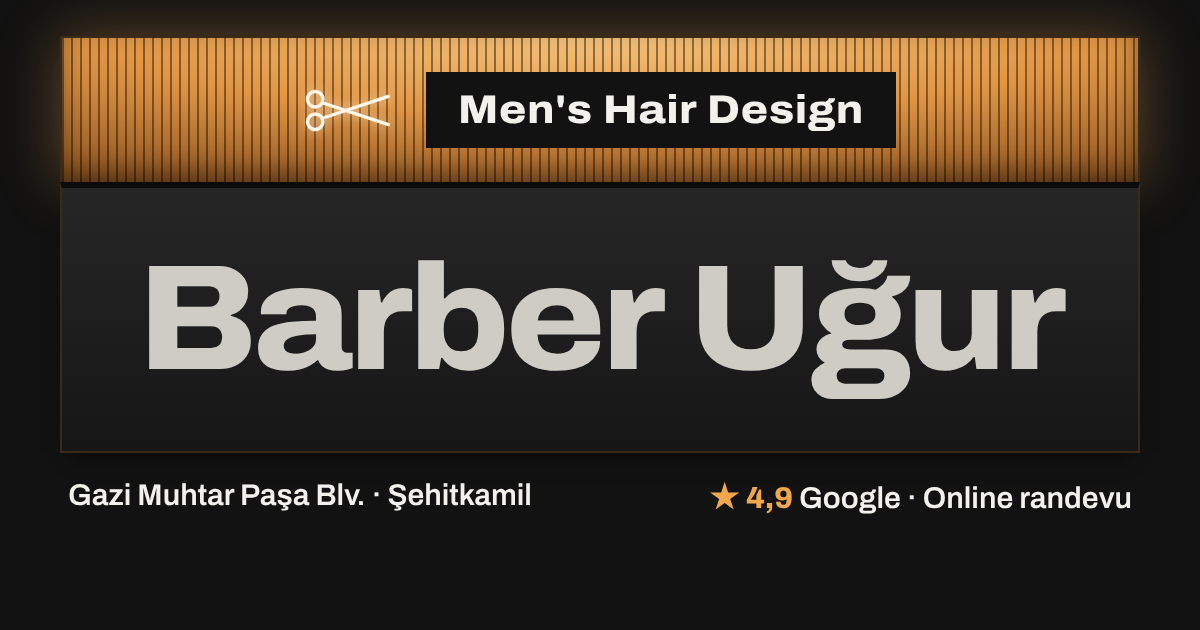
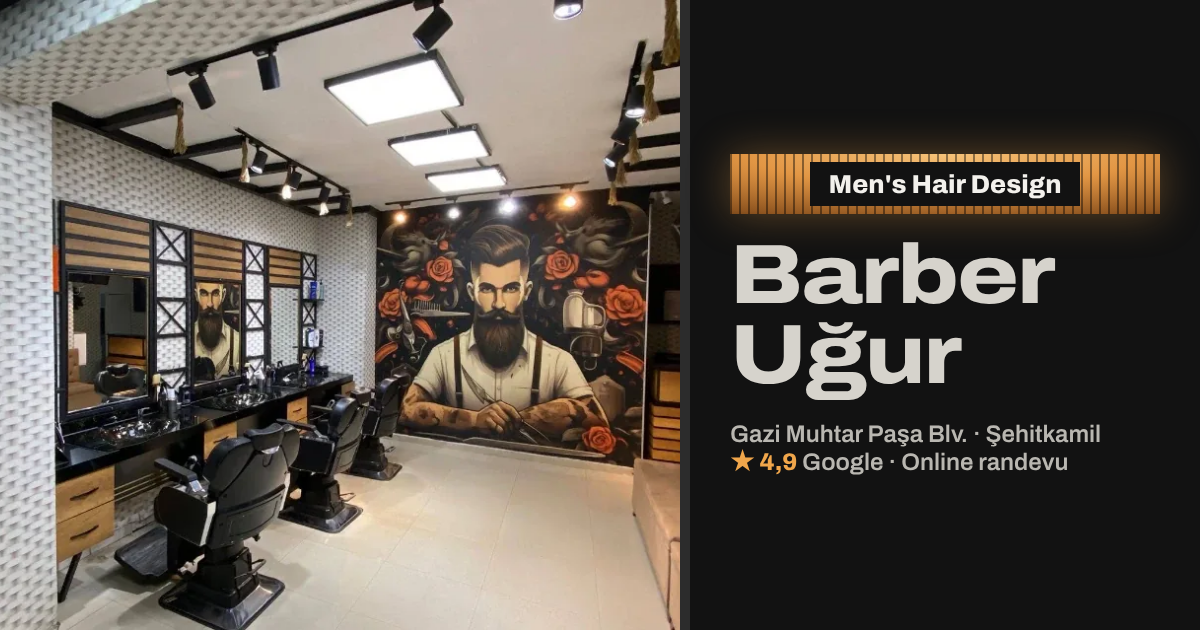
Barber Uğur: dükkânın gerçek fotoğrafları
Açılışa gece cephe fotoğrafı (vitrindeki kişiler bulanık), yeni 'İçeride'
bölümü (3 iç mekân fotoğrafı, kişisiz), gerçek fotoğraflı OG görseli,
grid taşma düzeltmesi. Adres kullanıcı tarafından teyit edildi.

Claude-Session: https://claude.ai/code/session_01LJucEp4QKttqhy59RtcL7h

diff --git a/barber-ugur/index.html b/barber-ugur/index.html
@@ -32,7 +32,11 @@
     "alternateName": "Barber Uğur Men's Hair Design",
     "description": "Gaziantep Şehitkamil Mücahitler'de, Gazi Muhtar Paşa Bulvarı üzerinde berber: saç kesimi, sakal tıraşı, saç ve sakal, çocuk tıraşı.",
     "url": "https://selahattinpeltek46-sudo.github.io/imfa-yap-/barber-ugur/",
-    "image": "https://selahattinpeltek46-sudo.github.io/imfa-yap-/barber-ugur/img/og.png",
+    "image": [
+      "https://selahattinpeltek46-sudo.github.io/imfa-yap-/barber-ugur/img/og.png",
+      "https://selahattinpeltek46-sudo.github.io/imfa-yap-/barber-ugur/img/cephe-gece.webp",
+      "https://selahattinpeltek46-sudo.github.io/imfa-yap-/barber-ugur/img/ic-genis.webp"
+    ],
     "telephone": "+905428253389",
     "address": {
       "@type": "PostalAddress",
@@ -88,6 +92,7 @@
       <a class="marka" href="./" aria-label="Barber Uğur ana sayfa">Barber Uğur</a>
       <nav class="menu" aria-label="Ana menü">
         <a href="#hizmetler">Hizmetler</a>
+        <a href="#iceride">İçeride</a>
         <a href="#randevu">Randevu</a>
         <a href="#sorular">Sorular</a>
         <a href="#adres">Adres</a>
@@ -121,6 +126,9 @@
               <span class="puan__yildiz" aria-hidden="true">★★★★★</span> Google'da 4,9 · 70 değerlendirme
             </a>
           </div>
+          <figure class="vitrin__foto">
+            <img src="img/cephe-gece.webp" width="662" height="813" fetchpriority="high" alt="Barber Uğur'un akşam cephesi: üstte ışıklı Men's Hair Design tabelası, siyah tentede Barber Uğur yazısı, önünde ahşap oturma grubu">
+          </figure>
           <dl class="vitrin__cam kunye">
             <div><dt>Kapanış</dt><dd>20:00</dd></div>
             <div><dt>Adres</dt><dd>Gazi Muhtar Paşa Blv. No:46/E</dd></div>
@@ -162,6 +170,27 @@
             <p>Tıraşın ardından yapılıyor; istiyorsanız randevu notuna yazın.</p>
           </li>
         </ul>
+      </div>
+    </section>
+
+    <!-- İÇERİDE: dükkânın kendi fotoğrafları (kişi yok; dış cephede içerideki kişiler bulanıklaştırıldı) -->
+    <section class="bolum bolum--koyu" id="iceride" aria-labelledby="iceride-baslik">
+      <div class="kap">
+        <h2 id="iceride-baslik">İçeride</h2>
+        <p class="iceride__giris">Duvarı kaplayan güllü berber resmi, ışıklı aynalar, siyah koltuklar. Bekleyenler için koltuk, küçükler için oyuncak araba var.</p>
+        <div class="galeri">
+          <figure class="galeri__genis">
+            <img src="img/ic-genis.webp" width="1206" height="639" loading="lazy" alt="Dükkânın içi: siyah berber koltukları, aynalı istasyonlar, duvarda güllü sakallı berber resmi, solda altın çerçeveli ayna ve mavi oyuncak araba koltuğu">
+          </figure>
+          <figure>
+            <img src="img/ic-duvar-resmi.webp" width="1219" height="637" loading="lazy" alt="Üç berber koltuğu, çapraz çıtalı siyah raflı aynalar ve sağ duvarda büyük sakallı berber resmi">
+            <figcaption>Duvar resmi ve aynalı istasyonlar</figcaption>
+          </figure>
+          <figure class="galeri__dik">
+            <img src="img/ic-altin-aynalar.webp" width="530" height="813" loading="lazy" alt="Cadde tarafında altın ışık çerçeveli aynalar ve siyah-altın berber koltukları">
+            <figcaption>Cadde tarafı</figcaption>
+          </figure>
+        </div>
       </div>
     </section>
 

diff --git a/barber-ugur/css/site.css b/barber-ugur/css/site.css
@@ -116,7 +116,7 @@ p { margin: 0 0 1em; }
 }
 
 .vitrin {
-  display: grid; grid-template-columns: 1.65fr 1fr; gap: 10px;
+  display: grid; grid-template-columns: minmax(0, 1.35fr) minmax(0, 1fr); gap: 10px;
   background: var(--kayit); padding: 10px; border-inline: 2px solid #3a2a17;
 }
 .vitrin__cam {
@@ -134,6 +134,8 @@ p { margin: 0 0 1em; }
 .puan:hover { color: var(--kirik); text-decoration: underline; }
 .puan__yildiz { color: var(--isik); letter-spacing: .1em; margin-right: .3rem; }
 
+.vitrin__foto { margin: 0; grid-row: span 2; background: #000; }
+.vitrin__foto img { width: 100%; height: 100%; object-fit: cover; object-position: 50% 30%; }
 .kunye { display: grid; align-content: center; gap: 0; }
 .kunye div { padding: .8rem 0; border-bottom: 1px solid rgba(243,241,236,.14); }
 .kunye div:last-child { border-bottom: 0; }
@@ -156,6 +158,19 @@ p { margin: 0 0 1em; }
 .bolum--koyu { background: var(--gece); color: var(--kirik); }
 .bolum--koyu a:not(.btn) { color: var(--isik); }
 .kucuk { font-size: .95rem; color: var(--gri); }
+
+/* İçeride */
+.iceride__giris { max-width: 52ch; color: var(--sis); margin-bottom: 2rem; }
+.galeri { display: grid; grid-template-columns: minmax(0, 1fr) minmax(0, 1fr); gap: 10px; background: var(--kayit); padding: 10px; }
+.galeri figure { margin: 0; position: relative; background: #000; }
+.galeri img { width: 100%; height: 100%; object-fit: cover; }
+.galeri__genis { grid-column: 1 / -1; }
+.galeri__dik { grid-row: span 1; }
+.galeri figcaption {
+  position: absolute; left: 0; bottom: 0; padding: .35rem .7rem; font-size: .85rem; font-weight: 600;
+  background: rgba(18,18,18,.82); color: var(--kirik);
+}
+.galeri figure:not(.galeri__genis) { aspect-ratio: 4 / 3; }
 
 /* Hizmetler */
 .hizmet-duzen { display: grid; grid-template-columns: 1fr 1.35fr; gap: clamp(32px, 6vw, 88px); align-items: start; }
@@ -287,6 +302,7 @@ input:focus, select:focus, textarea:focus { outline: 3px solid var(--isik); outl
 
 @media (max-width: 960px) {
   .hizmet-duzen, .randevu, .adres, .sss-duzen, .vitrin { grid-template-columns: 1fr; }
+  .vitrin__foto { grid-row: auto; aspect-ratio: 4 / 5; }
   .menu a:not(.menu__tel) { display: none; }
 }
 @media (max-width: 600px) {
@@ -297,6 +313,8 @@ input:focus, select:focus, textarea:focus { outline: 3px solid var(--isik); outl
   .mobil-bar { display: grid; }
   .isikli-tabela { margin-top: 6px; }
   .harita { min-height: 300px; }
+  .galeri { grid-template-columns: 1fr; }
+  .galeri figure:not(.galeri__genis) { aspect-ratio: 3 / 2; }
 }
 @media (prefers-reduced-motion: reduce) {
   html { scroll-behavior: auto; }

diff --git a/barber-ugur/_proje/revizyon-3-fotograflar.md b/barber-ugur/_proje/revizyon-3-fotograflar.md
@@ -1,0 +1,28 @@
+# REVİZYON 3 — Dükkânın kendi fotoğrafları
+
+Tarih: 2026-10-15 · Tetikleyici: kullanıcı 4 fotoğrafı tekrar gönderdi (bu kez dosya olarak ulaştı) ve adresi yazılı olarak teyit etti.
+
+## Adres
+"Mücahitler, Gazi Muhtar Paşa Blv. Gazi Apartmanı No:46/E, 27090 Şehitkamil/Gaziantep" — Haritalar kartıyla birebir; sınıf: DOĞRULANMIŞ + KULLANICI BİLGİSİ. Sitede değişiklik gerekmedi.
+
+## Görseller
+| Dosya | Kaynak | İşlem | Kullanım | Sınıf (14) |
+|---|---|---|---|---|
+| `img/cephe-gece.webp` (662×813) | Gece cephe | Vitrin camındaki **kişiler yumuşak maskeyle bulanıklaştırıldı** (buzlu cam etkisi); tabela, tente, oturma grubu net | Açılış (vitrin bölmesi) | ATTENTION / BRAND / PROOF |
+| `img/ic-genis.webp` (1206×639) | İç mekân geniş açı | Kişi yok, olduğu gibi | "İçeride" büyük kare; OG görseli | PROOF / EMOTION |
+| `img/ic-duvar-resmi.webp` (1219×637) | Duvar resmi + 3 istasyon | Kişi yok, olduğu gibi | "İçeride" | PROOF |
+| `img/ic-altin-aynalar.webp` (530×813) | Cadde tarafı altın LED aynalar | Soldaki dış mekân kişisi ve sağdaki siyah şerit kırpıldı | "İçeride" | PROOF |
+| `img/og.png` (1200×630) | ic-genis + tabela tipografisi | Yeniden üretildi | WhatsApp / sosyal paylaşım önizlemesi | CONVERSION |
+Kullanılmayan: ayna selfie'si (müşteri ve çalışan yüzleri).
+
+## Sayfa değişiklikleri
+- Açılış: vitrin 2 sütun → sol: tanıtım + CTA, altında künye; sağ: gece cephe fotoğrafı (2 satır boyu). Mobilde metin → foto (4:5) → künye.
+- Yeni bölüm `#iceride` (koyu): "İçeride" + 1 geniş + 2 kare fotoğraf, kısa altyazılar; menüye "İçeride".
+- Schema `image` dizisine gerçek fotoğraflar eklendi.
+- Grid sütunları `minmax(0, …)` (resimlerin min-content genişliği 1366'da 148 px taşma yapıyordu → 0).
+
+## Test
+Taşma 1366 / 375: 0 / 0 · tek H1 · alt metinsiz `<img>` 0 · JSON-LD geçerli · konsol hatası 0 · randevu uçtan uca 26/26 · hatırlatma 18/18.
+
+## Açık soru (kapandı sayılmadı)
+İki iç mekân görünümü (beyaz tuğla duvarlı bölüm / gri duvarlı altın LED bölüm) aynı dükkânın iki alanı olarak sunuldu; kullanıcı fotoğrafları birlikte bu dükkân için gönderdi [VARSAYIM: aynı dükkân, iki bölüm].

diff --git a/.claude/skills/selahattin-ai/SKILL.md b/.claude/skills/selahattin-ai/SKILL.md
@@ -82,3 +82,5 @@ _(Her projenin 22. aşamasında buraya yeni kurallar / hatalar / çözümler ekl
 - [2026-10-15] [barber-ugur] STANDART: Tek fotoğrafta görülen, süresi/fiyatı bilinmeyen hizmet randevu seçeneği yapılmaz; listede "Sorun" (WhatsApp) CTA'sıyla durur.
 - [2026-10-15] [barber-ugur] ÇÖZÜM: Ücretsiz randevu hatırlatması = (1) sonuç ekranında `data:text/calendar` `.ics` (UTC saat, `VALARM TRIGGER:-PT120M`, CRLF, `,;` kaçışlı) + (2) Apps Script: etkinliğe `addPopupReminder` + açıklamaya `wa.me/<müşteri>?text=` bağlantısı ve 15 dk'lık tetikleyiciyle "Hatırlatma gönder" e-postası (etkinlik "bildirildi" etiketiyle tek sefer; az önce alınan randevu ve telefonsuz etkinlik atlanır). Tam otomatik isteyene SMS API aynı noktaya bağlanır. Şablon: `barber-ugur/_proje/randevu-sistemi/`.
 - [2026-10-15] [barber-ugur] HATA: Apps Script tetikleyicisini Node'da sahte servislerle test ederken sabit "şimdi" ile gerçek `Date.now()` karıştı (oluşturma tarihi gelecekte kaldı). ÇÖZÜM: Kodun kullandığı saat kaynağıyla (Date.now) aynı kaynaktan test verisi üret.
+- [2026-10-15] [barber-ugur] ÇÖZÜM: Cephe fotoğrafında vitrin içindeki kişiler varsa dikdörtgen bulanıklık yerine kişilerin üzerine yumuşak kenarlı maske (`GaussianBlur` + feather'lı `Image.composite`) uygula → buzlu cam gibi doğal görünür, kimse tanınmaz.
+- [2026-10-15] [barber-ugur] HATA: `object-fit: cover` resimli grid'de `1fr` sütunlar resmin doğal genişliğine göre büyüyüp 148 px yatay taşma yaptı. ÇÖZÜM: Resim içeren grid'lerde `minmax(0, 1fr)` kullan.

diff --git a/barber-ugur/_proje/durum.md b/barber-ugur/_proje/durum.md
@@ -1,6 +1,6 @@
 # Barber Uğur — Proje Durumu (SELAHATTİN AI v2.1)
 
-Son güncelleme: 2026-10-15 · Revizyon 2: randevu hatırlatması (2 saat önce) — `revizyon-2-hatirlatma.md`
+Son güncelleme: 2026-10-15 · Revizyon 2: randevu hatırlatması — `revizyon-2-hatirlatma.md` · Revizyon 3: fotoğraflar — `revizyon-3-fotograflar.md`
 
 | # | Aşama | Modül | Durum | Not |
 |---|---|---|---|---|
@@ -17,7 +17,7 @@ Son güncelleme: 2026-10-15 · Revizyon 2: randevu hatırlatması (2 saat önce)
 | 11 | Website Blueprint & Legal | 2 | ✅ TAMAMLANDI | KVKK şablon; banner gerekmez |
 | 12 | Copywriting Engine | 2 | ✅ TAMAMLANDI | Fotoğraflarla güncellendi |
 | 13 | SEO & Analytics | 2 | ✅ TAMAMLANDI | GA4 kurulmadı (altyapı hazır) |
-| 14 | Visual Intelligence | 2 | ⚠ RİSK | Fotoğraf dosyaları ulaşmadı; tasarım dili gece cephesinden |
+| 14 | Visual Intelligence | 2 | ✅ TAMAMLANDI | Revizyon 3: 4 gerçek fotoğraf (kişiler bulanık/kırpık), OG yenilendi |
 | 15 | Tech Stack & Plan | 3 | ✅ TAMAMLANDI | Statik + Apps Script randevu |
 | 16 | Development | 3 | ✅ TAMAMLANDI | Uçtan uca testler geçti; + 2 saat önce hatırlatma (.ics alarmı + dükkândan WhatsApp) |
 | 17 | Evaluation | 4 | ✅ TAMAMLANDI | |
